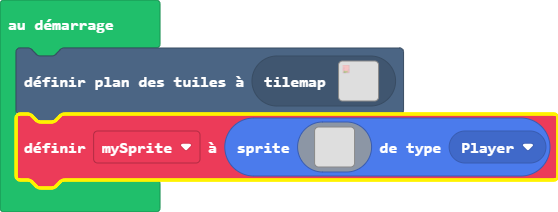
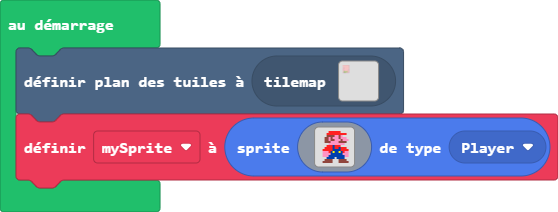
Mise à jour main.blocks, main.ts

Changed region(s): [[0.0609, 0.5094, 1.0, 0.9057], [0.0, 0.5094, 0.0609, 0.8774], [0.5789, 0.5943, 0.6398, 0.7925]]

diff --git a/main.ts b/main.ts
@@ -1,19 +1,19 @@
 tiles.setCurrentTilemap(tilemap`niveau1`)
 let mySprite = sprites.create(img`
-    . . . . . . . . . . . . . . . . 
-    . . . . . . . . . . . . . . . . 
-    . . . . . . . . . . . . . . . . 
-    . . . . . . . . . . . . . . . . 
-    . . . . . . . . . . . . . . . . 
-    . . . . . . . . . . . . . . . . 
-    . . . . . . . . . . . . . . . . 
-    . . . . . . . . . . . . . . . . 
-    . . . . . . . . . . . . . . . . 
-    . . . . . . . . . . . . . . . . 
-    . . . . . . . . . . . . . . . . 
-    . . . . . . . . . . . . . . . . 
-    . . . . . . . . . . . . . . . . 
-    . . . . . . . . . . . . . . . . 
-    . . . . . . . . . . . . . . . . 
-    . . . . . . . . . . . . . . . . 
+    . . . . . 2 2 2 2 2 2 . . . . . 
+    . . . . 2 2 2 2 2 2 2 2 2 2 . . 
+    . . . . e e e e 3 3 e 3 . . . . 
+    . . . e e 3 e 3 3 3 e 3 3 3 . . 
+    . . . e e 3 e e 3 3 3 e 3 3 3 . 
+    . . . e e e 3 3 3 3 e e e e . . 
+    . . . . . 3 3 3 3 3 3 3 3 . . . 
+    . . . . 2 2 2 8 2 2 2 . . . . . 
+    . . . 2 2 2 2 8 2 2 8 2 2 2 . . 
+    . . 2 2 2 2 2 8 8 8 8 2 2 2 2 . 
+    . . 3 3 3 2 8 5 8 8 5 8 2 3 3 . 
+    . . 3 3 3 3 8 8 8 8 8 8 3 3 3 . 
+    . . 3 3 3 8 8 8 8 8 8 8 8 3 3 . 
+    . . . . 8 8 8 8 . 8 8 8 8 . . . 
+    . . . e e e e . . . e e e e . . 
+    . . e e e e e . . . e e e e e . 
     `, SpriteKind.Player)
